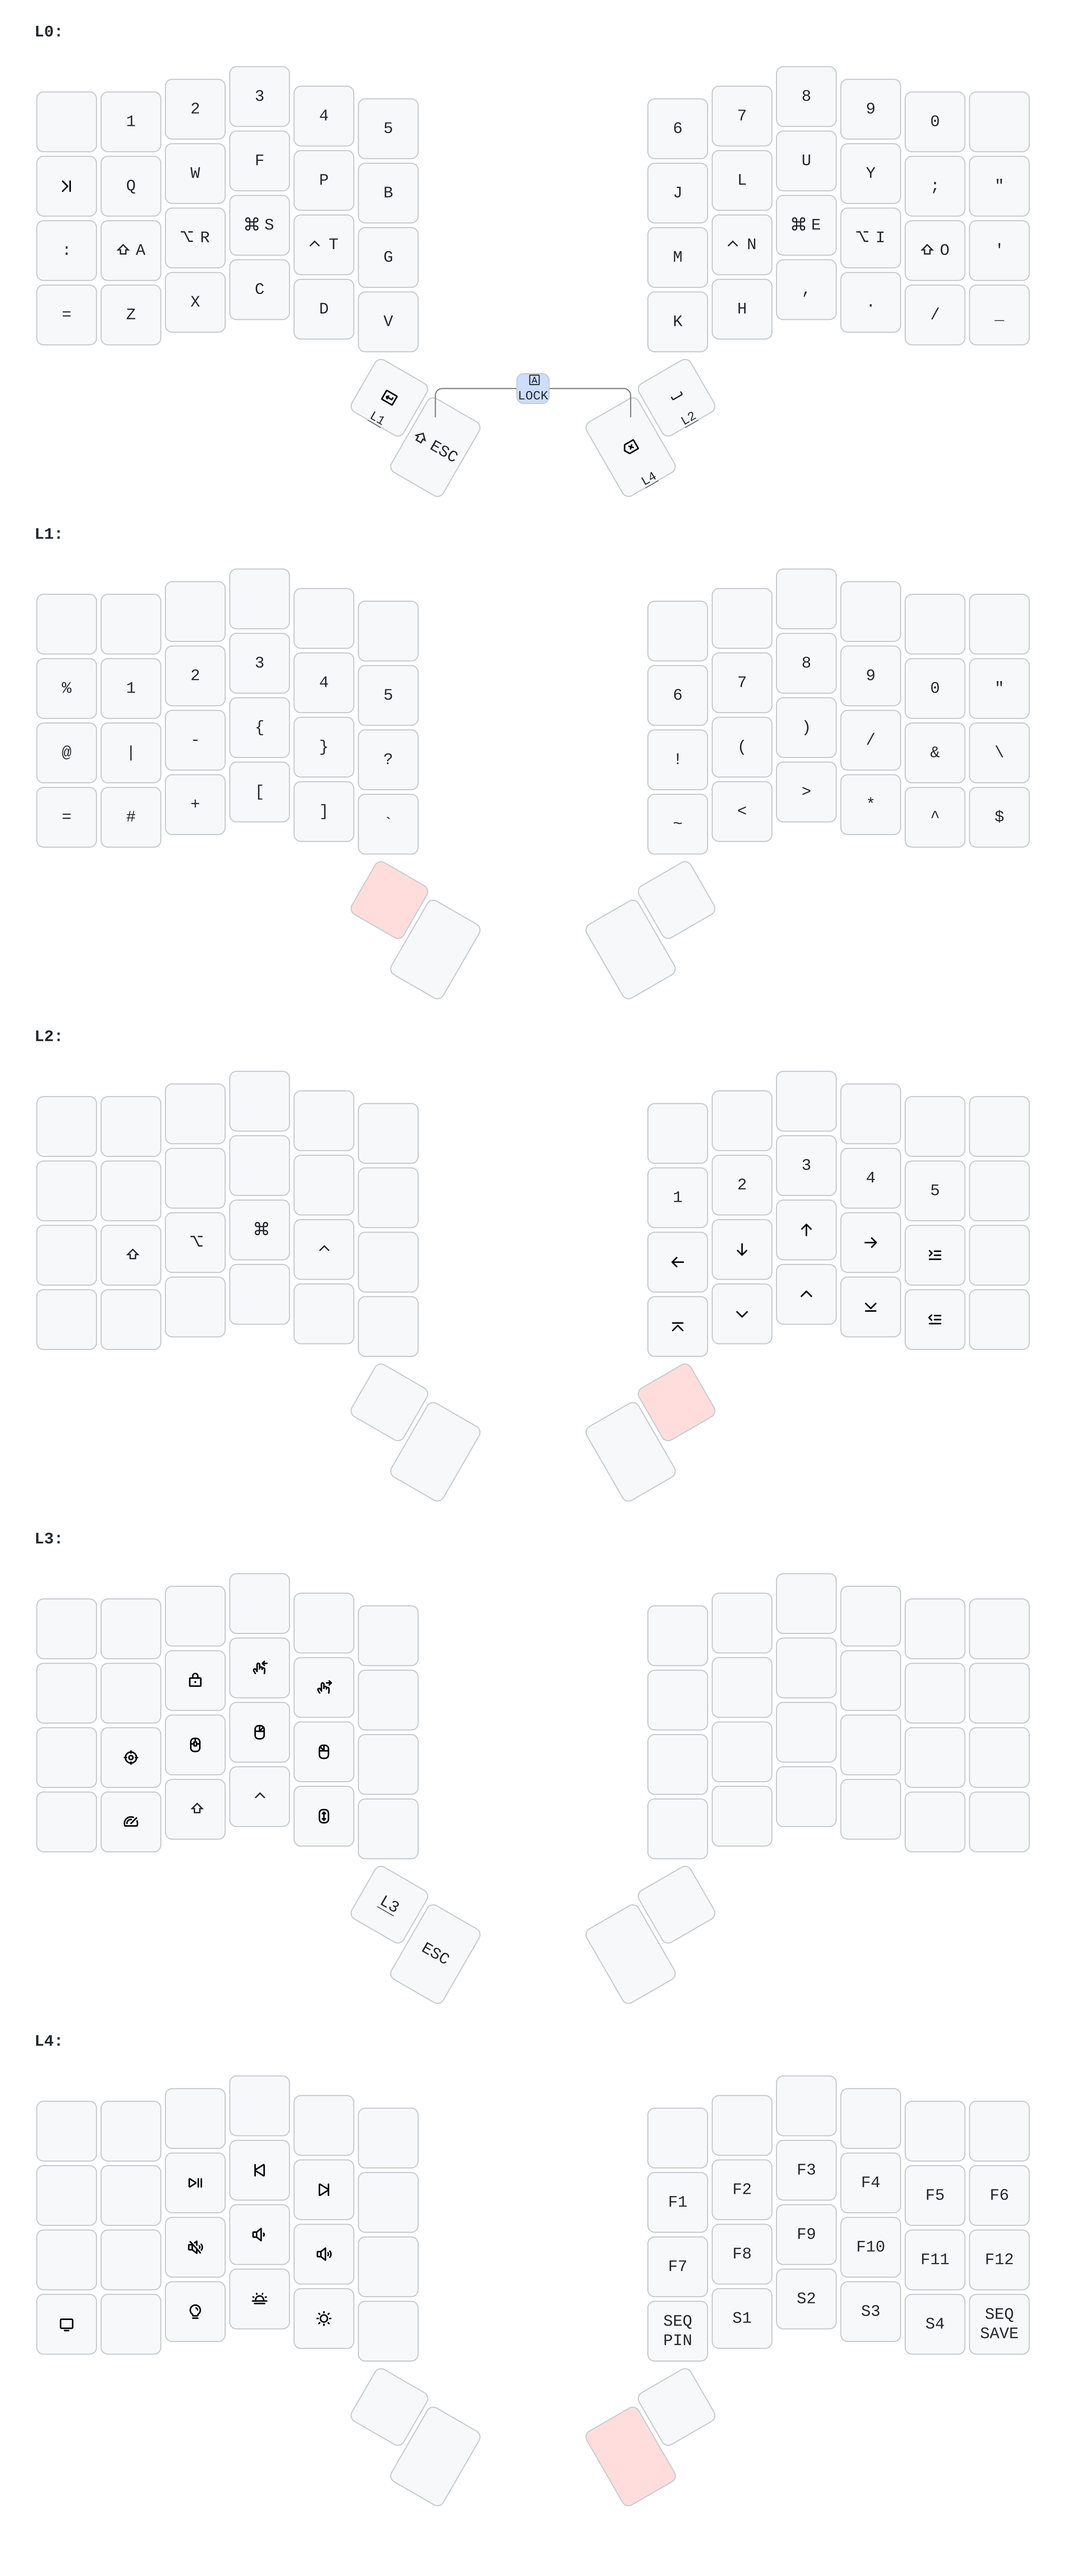
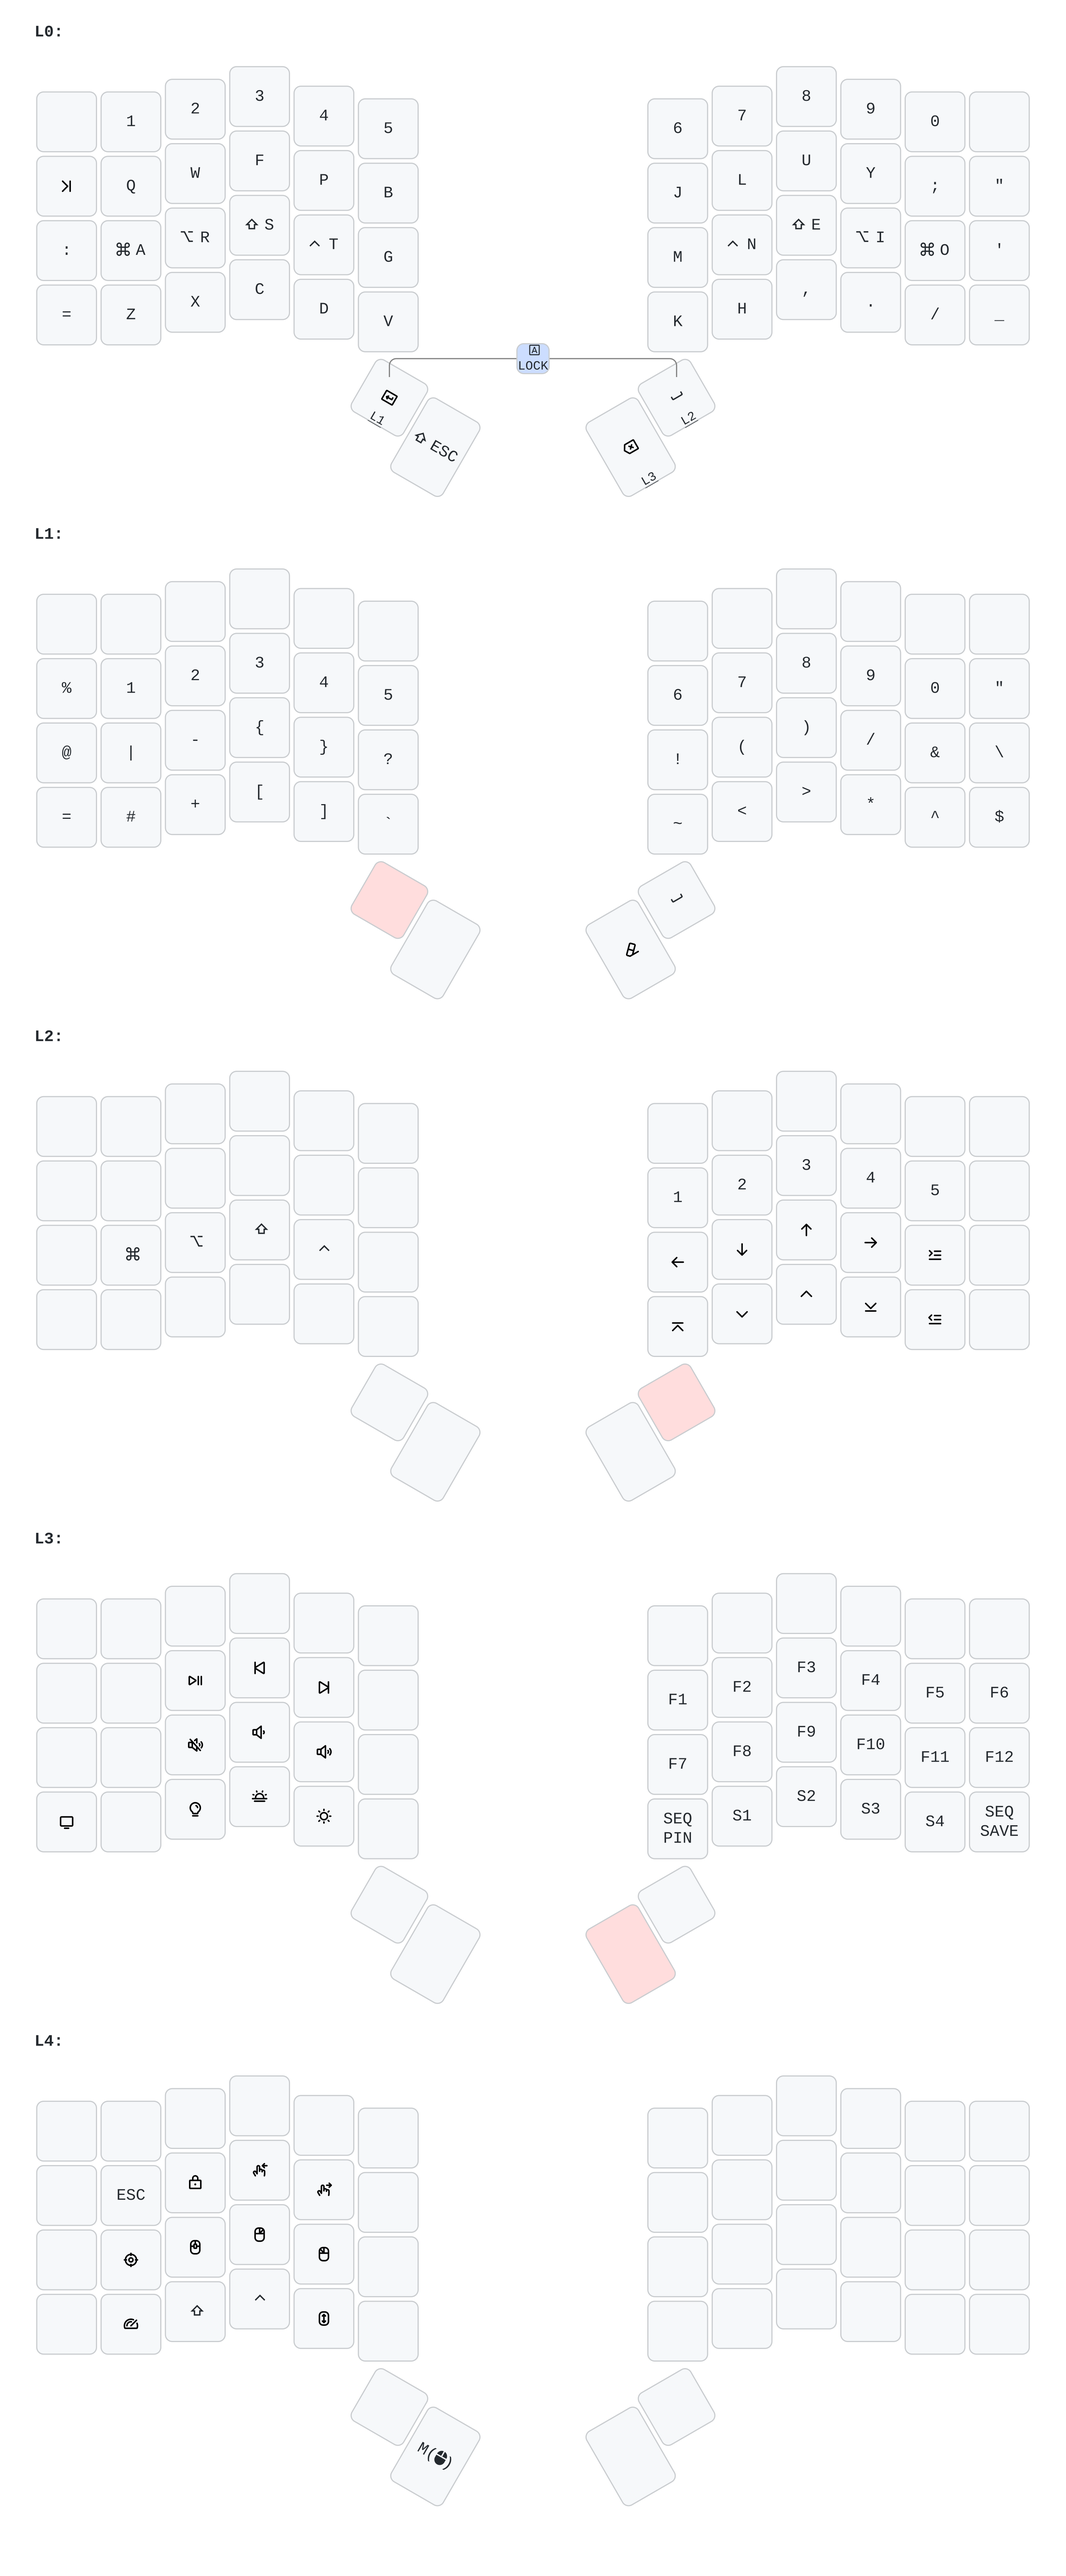
feat: better configuration for layers and mods

diff --git a/keyboards/zsa/voyager/keymaps/mine/keymap.c b/keyboards/zsa/voyager/keymaps/mine/keymap.c
@@ -29,9 +29,9 @@ const uint16_t PROGMEM keymaps[][MATRIX_ROWS][MATRIX_COLS] = {
 [MAIN] = LAYOUT(
       __      , KC_1   , KC_2   , KC_3   , KC_4          , KC_5     ,     KC_6           , KC_7          , KC_8     , KC_9   , KC_0         , __        ,
       KC_TAB  , KC_Q   , KC_W   , KC_F   , KC_P          , KC_B     ,     KC_J           , KC_L          , KC_U     , KC_Y   , KC_SEMICOLON , S(KC_QUOT),
-      KC_COLN , KC_A_S , KC_R_A , KC_S_G , KC_T_C        , KC_G     ,     KC_M           , KC_N_C        , KC_E_G   , KC_I_A , KC_O_S       , KC_QUOT   ,
+      KC_COLN , KC_A_G , KC_R_A , KC_S_S , KC_T_C        , KC_G     ,     KC_M           , KC_N_C        , KC_E_S   , KC_I_A , KC_O_G       , KC_QUOT   ,
       KC_EQL  , KC_Z   , KC_X   , KC_C   , KC_D          , KC_V     ,     KC_K           , KC_H          , KC_COMMA , KC_DOT , KC_SLSH      , KC_UNDS   ,
-                                           LT(1, KC_ENT) , KC_ESC_S ,     LT(4, KC_BSPC) , LT(2, KC_SPC)
+                                           LT(1, KC_ENT) , KC_ESC_S ,     LT(3, KC_BSPC) , LT(2, KC_SPC)
 ),
 
 [SYMBOLS] = LAYOUT(
@@ -39,23 +39,15 @@ const uint16_t PROGMEM keymaps[][MATRIX_ROWS][MATRIX_COLS] = {
       KC_PERC , KC_1    , KC_2    , KC_3    , KC_4    , KC_5    ,     KC_6    , KC_7    , KC_8    , KC_9     , KC_0    , KC_DQUO     ,
       KC_AT   , KC_PIPE , KC_MINS , KC_LCBR , KC_RCBR , KC_QUES ,     KC_EXLM , KC_LPRN , KC_RPRN , KC_SLASH , KC_AMPR , KC_BACKSLASH,
       KC_EQL  , KC_HASH , KC_PLUS , KC_LBRC , KC_RBRC , KC_GRV  ,     KC_TILD , KC_LABK , KC_RABK , KC_ASTR  , KC_CIRC , KC_DLR      ,
-                                              __      , __      ,     __      , __
+                                              __      , __      ,     KC_DEL  , KC_SPC
 ),
 
 [NAVIGATION] = LAYOUT(
       __ , __      , __      , __      , __      , __ ,     __      , __      , __      , __       , __           , __,
       __ , __      , __      , __      , __      , __ ,     KC_1    , KC_2    , KC_3    , KC_4     , KC_5         , __,
-      __ , KC_LSFT , KC_LALT , KC_LGUI , KC_LCTL , __ ,     KC_LEFT , KC_DOWN , KC_UP   , KC_RIGHT , C(S(KC_TAB)) , __,
+      __ , KC_LGUI , KC_LALT , KC_LSFT , KC_LCTL , __ ,     KC_LEFT , KC_DOWN , KC_UP   , KC_RIGHT , C(S(KC_TAB)) , __,
       __ , __      , __      , __      , __      , __ ,     KC_HOME , KC_PGDN , KC_PGUP , KC_END   , C(KC_TAB)    , __,
                                          __      , __ ,     __      , __
-),
-
-[MOUSE] = LAYOUT(
-      __ , __        , __      , __      , __         , __     ,     __ , __ , __ , __ , __ , __,
-      __ , __        , QK_LLCK , MS_BTN4 , MS_BTN5    , __     ,     __ , __ , __ , __ , __ , __,
-      __ , NAV_AIM   , MS_BTN3 , MS_BTN2 , MS_BTN1    , __     ,     __ , __ , __ , __ , __ , __,
-      __ , NAV_TURBO , KC_LSFT , KC_LCTL , NAV_SCROLL , __     ,     __ , __ , __ , __ , __ , __,
-                                           MO(3)      , KC_ESC ,     __ , __
 ),
 
 [EXTRA] = LAYOUT(
@@ -64,6 +56,14 @@ const uint16_t PROGMEM keymaps[][MATRIX_ROWS][MATRIX_COLS] = {
       __              , __ , KC_MUTE , KC_VOLD , KC_VOLU , __ ,     KC_F7  , KC_F8   , KC_F9   , KC_F10  , KC_F11  , KC_F12  ,
       KC_PRINT_SCREEN , __ , LED_TOG , RGB_VAD , RGB_VAU , __ ,     TD(TP) , TD(TS0) , TD(TS1) , TD(TS2) , TD(TS3) , SEQ_SAVE,
                                                  __      , __ ,     __     , __
+),
+
+[MOUSE] = LAYOUT(
+      __ , __        , __      , __      , __         , __        ,     __ , __ , __ , __ , __ , __,
+      __ , KC_ESC    , QK_LLCK , MS_BTN4 , MS_BTN5    , __        ,     __ , __ , __ , __ , __ , __,
+      __ , NAV_AIM   , MS_BTN3 , MS_BTN2 , MS_BTN1    , __        ,     __ , __ , __ , __ , __ , __,
+      __ , NAV_TURBO , KC_LSFT , KC_LCTL , NAV_SCROLL , __        ,     __ , __ , __ , __ , __ , __,
+                                           __         , MO(MOUSE) ,     __ , __
 )
 };
 // clang-format on

diff --git a/keyboards/zsa/voyager/keymaps/mine/leds.h b/keyboards/zsa/voyager/keymaps/mine/leds.h
@@ -43,18 +43,18 @@ void enable_leds(void) {
 
 LEDMAP_START = {
   [MAIN] = LEDS(
-      MOV, NUM, NUM, NUM, NUM, NUM, NUM, NUM, NUM, NUM, NUM, ___,
+      ___, NUM, NUM, NUM, NUM, NUM, NUM, NUM, NUM, NUM, NUM, ___,
       SYM, TXT, TXT, TXT, TXT, TXT, TXT, TXT, TXT, TXT, SYM, SYM,
       SYM, MOD, MOD, MOD, MOD, TXT, TXT, MOD, MOD, MOD, MOD, SYM,
       SYM, TXT, TXT, TXT, TXT, TXT, TXT, TXT, SYM, SYM, SYM, SYM,
-                          MOV, MOD, MOV, MOV
+                          MOV, MOV, MOD, MOV
   ),
   [SYMBOLS] = LEDS(
       ___, ___, ___, ___, ___, ___, ___, ___, ___, ___, ___, ___,
       SYM, NUM, NUM, NUM, NUM, NUM, NUM, NUM, NUM, NUM, NUM, SYM,
       SYM, SYM, SYM, SYM, SYM, SYM, SYM, SYM, SYM, SYM, SYM, SYM,
       SYM, SYM, SYM, SYM, SYM, SYM, SYM, SYM, SYM, SYM, SYM, SYM,
-                          ___, ___, ___, ___
+                          ___, ___, SYM, SYM
   ),
   [NAVIGATION] = LEDS(
       ___, ___, ___, ___, ___, ___, ___, ___, ___, ___, ___, ___,
@@ -63,19 +63,19 @@ LEDMAP_START = {
       ___, ___, ___, ___, ___, ___, NAV, NAV, NAV, NAV, NAV, ___,
                           ___, ___, ___, ___
   ),
-  [MOUSE] = LEDS(
-      ___, ___, ___, ___, ___, ___, ___, ___, ___, ___, ___, ___,
-      ___, ___, MOV, NAV, NAV, ___, ___, ___, ___, ___, ___, ___,
-      ___, NAV, NAV, NAV, NAV, ___, ___, ___, ___, ___, ___, ___,
-      ___, NAV, SYM, NAV, NAV, ___, ___, ___, ___, ___, ___, ___,
-                          MOV, SYM, ___, ___
-  ),
   [EXTRA] = LEDS(
       ___, ___, ___, ___, ___, ___, ___, ___, ___, ___, ___, ___,
       ___, ___, SYS, SYS, SYS, ___, SYS, SYS, SYS, SYS, SYS, SYS,
       ___, MOD, SYS, SYS, SYS, ___, SYS, SYS, SYS, SYS, SYS, SYS,
       SYS, ___, SYS, SYS, SYS, ___, SYS, SYS, SYS, SYS, SYS, SYS,
                           ___, ___, ___, ___
+  ),
+  [MOUSE] = LEDS(
+      ___, ___, ___, ___, ___, ___, ___, ___, ___, ___, ___, ___,
+      ___, SYM, MOV, NAV, NAV, ___, ___, ___, ___, ___, ___, ___,
+      ___, NAV, NAV, NAV, NAV, ___, ___, ___, ___, ___, ___, ___,
+      ___, NAV, SYM, NAV, NAV, ___, ___, ___, ___, ___, ___, ___,
+                          ___, MOV, ___, ___
   )
 };
 // clang-format on

diff --git a/keyboards/zsa/voyager/keymaps/mine/tapping.h b/keyboards/zsa/voyager/keymaps/mine/tapping.h
@@ -27,7 +27,7 @@ uint16_t get_quick_tap_term(uint16_t keycode, keyrecord_t *record) {
 #ifdef PERMISSIVE_HOLD_PER_KEY
 bool get_permissive_hold(uint16_t keycode, keyrecord_t *record) {
     switch (keycode) {
-        case LT(4, KC_BSPC):
+        case KC_ESC_S:
         case LT(2, KC_SPC):
             return true;
         default:
@@ -39,11 +39,57 @@ bool get_permissive_hold(uint16_t keycode, keyrecord_t *record) {
 #ifdef HOLD_ON_OTHER_KEY_PRESS_PER_KEY
 bool get_hold_on_other_key_press(uint16_t keycode, keyrecord_t *record) {
     switch (keycode) {
-        case KC_ESC_S:
         case LT(1, KC_ENT):
             return true;
         default:
             return false;
     }
+}
+#endif
+
+#ifdef FLOW_TAP_TERM
+bool is_flow_tap_key(uint16_t keycode) {
+    switch (keycode) {
+        case KC_A_G:
+        case KC_R_A:
+        case KC_S_S:
+        case KC_T_C:
+        case KC_N_C:
+        case KC_E_S:
+        case KC_I_A:
+        case KC_O_G:
+            return true;
+        default:;
+    }
+
+    if ((get_mods() & (MOD_MASK_CG | MOD_BIT_LALT)) != 0) {
+        return false;
+    }
+
+    switch (get_tap_keycode(keycode)) {
+        case KC_A ... KC_Z:
+        case KC_DOT:
+        case KC_COMM:
+        case KC_SCLN:
+        case KC_SLSH:
+            return true;
+    }
+    return false;
+}
+
+uint16_t get_flow_tap_term(uint16_t keycode, keyrecord_t *record, uint16_t prev_keycode) {
+    switch (keycode) {
+        case LT(2, KC_SPC):
+            return 0;
+        default:;
+    }
+
+    if (is_flow_tap_key(keycode) && is_flow_tap_key(prev_keycode)) {
+        uint8_t row = record->event.key.row;
+        uint8_t col = record->event.key.col;
+
+        return FLOW_TAP_TERM + delays[row][col];
+    }
+    return 0;
 }
 #endif

diff --git a/keyboards/zsa/voyager/keymaps/mine/constants.h b/keyboards/zsa/voyager/keymaps/mine/constants.h
@@ -14,19 +14,19 @@ enum Layer {
     MAIN,
     SYMBOLS,
     NAVIGATION,
-    MOUSE,
     EXTRA,
+    MOUSE,
     LAYER_COUNT
 };
 
-#define KC_A_S LSFT_T(KC_A)
+#define KC_A_G LGUI_T(KC_A)
 #define KC_R_A LALT_T(KC_R)
-#define KC_S_G LGUI_T(KC_S)
+#define KC_S_S LSFT_T(KC_S)
 #define KC_T_C LCTL_T(KC_T)
 #define KC_N_C RCTL_T(KC_N)
-#define KC_E_G RGUI_T(KC_E)
+#define KC_E_S RSFT_T(KC_E)
 #define KC_I_A RALT_T(KC_I)
-#define KC_O_S RSFT_T(KC_O)
+#define KC_O_G RGUI_T(KC_O)
 
 #define KC_ESC_S LSFT_T(KC_ESC)
 
@@ -44,12 +44,12 @@ enum Layer {
 #define GREEN 94, 255, 225
 
 // clang-format off
-const char delays[MATRIX_ROWS][MATRIX_COLS] PROGMEM =
+const int delays[MATRIX_ROWS][MATRIX_COLS] PROGMEM =
   LAYOUT(
-  T_6  , T_5  , T_4  , T_3  , T_2  , T_1  , T_1  , T_2  , T_3  , T_4  , T_5  , T_6  ,
-  T_6  , T_5  , T_4  , T_3  , T_2  , T_1  , T_1  , T_2  , T_3  , T_4  , T_5  , T_6  ,
-  T_6  , T_5  , T_4  , T_3  , T_2  , T_1  , T_1  , T_2  , T_3  , T_4  , T_5  , T_6  ,
-  T_6  , T_5  , T_4  , T_3  , T_2  , T_1  , T_1  , T_2  , T_3  , T_4  , T_5  , T_6  ,
-                              T_T2 , T_T1 , T_T1 , T_T2
+  0    , 0    , 0    , 0    , 0    , 0    , 0    , 0    , 0    , 0    , 0    , 0    ,
+  0    , 0    , 0    , 0    , 0    , 0    , 0    , 0    , 0    , 0    , 0    , 0    ,
+  0    , 50   , 50   , 0    , 50   , 0    , 0    , 50   , 0    , 50   , 50   , 0    ,
+  0    , 0    , 0    , 0    , 0    , 0    , 0    , 0    , 0    , 0    , 0    , 0    ,
+                              100  , 50   , 50   , 100
 );
 // clang-format on

diff --git a/keyboards/zsa/voyager/keymaps/mine/config.h b/keyboards/zsa/voyager/keymaps/mine/config.h
@@ -5,23 +5,25 @@
 #define SEQUENCE_STORAGE_SLOTS 5 // Just a copy of the sequence_storage.h definition
 #define EECONFIG_USER_DATA_SIZE (SEQUENCE_STORAGE_SLOTS * (1 + SEQUENCE_STORAGE_MAX_LEN) * 2)
 
-#define PERMISSIVE_HOLD_PER_KEY
+#define PERMISSIVE_HOLD
 #define HOLD_ON_OTHER_KEY_PRESS_PER_KEY
 #define CHORDAL_HOLD
 
-#define TAPPING_TERM 200
+#define TAPPING_TERM 150
 #define TAPPING_TERM_PER_KEY
-#define QUICK_TAP_TERM 120
+#define QUICK_TAP_TERM 100
 #define QUICK_TAP_TERM_PER_KEY
+#define COMBO_TERM 30
 
-#define T_1 0
-#define T_2 0
-#define T_3 0
-#define T_4 0
-#define T_5 0
-#define T_6 0
-#define T_T1 40
-#define T_T2 80
+// clang-format off
+#ifdef AUTO_SHIFT_ENABLE
+#define AUTO_SHIFT_TIMEOUT 240
+#define AUTO_SHIFT_TIMEOUT_PER_KEY
+#define AUTO_SHIFT_REPEAT
+#define NO_AUTO_SHIFT_SYMBOLS
+#define RETRO_SHIFT AUTO_SHIFT_TIMEOUT * 2
+#endif
+// clang-format on
 
 #define CAPS_LOCK_STATUS
 
@@ -37,7 +39,7 @@
 #define NAVIGATOR_SCROLL_INVERT_Y
 
 #define POINTING_DEVICE_AUTO_MOUSE_ENABLE
-#define AUTO_MOUSE_DEFAULT_LAYER 3
+#define AUTO_MOUSE_DEFAULT_LAYER 4
 #define AUTO_MOUSE_THRESHOLD 15
 #define AUTO_MOUSE_TIME 150
 #define AUTO_MOUSE_TOGGLE_TIMEOUT 500

diff --git a/keyboards/zsa/voyager/keymaps/mine/combos.h b/keyboards/zsa/voyager/keymaps/mine/combos.h
@@ -7,7 +7,7 @@ enum combos {
     COMBO_LENGTH
 };
 
-const uint16_t PROGMEM c_capslock[] = {KC_ESC_S, LT(4, KC_BSPC), COMBO_END}; // top 0.2
+const uint16_t PROGMEM c_capslock[] = {LT(1, KC_ENT), LT(2, KC_SPC), COMBO_END}; // top 0.1
 
 combo_t key_combos[] = {
     [C_CAPSLOCK] = COMBO(c_capslock, KC_CAPS_LOCK),
